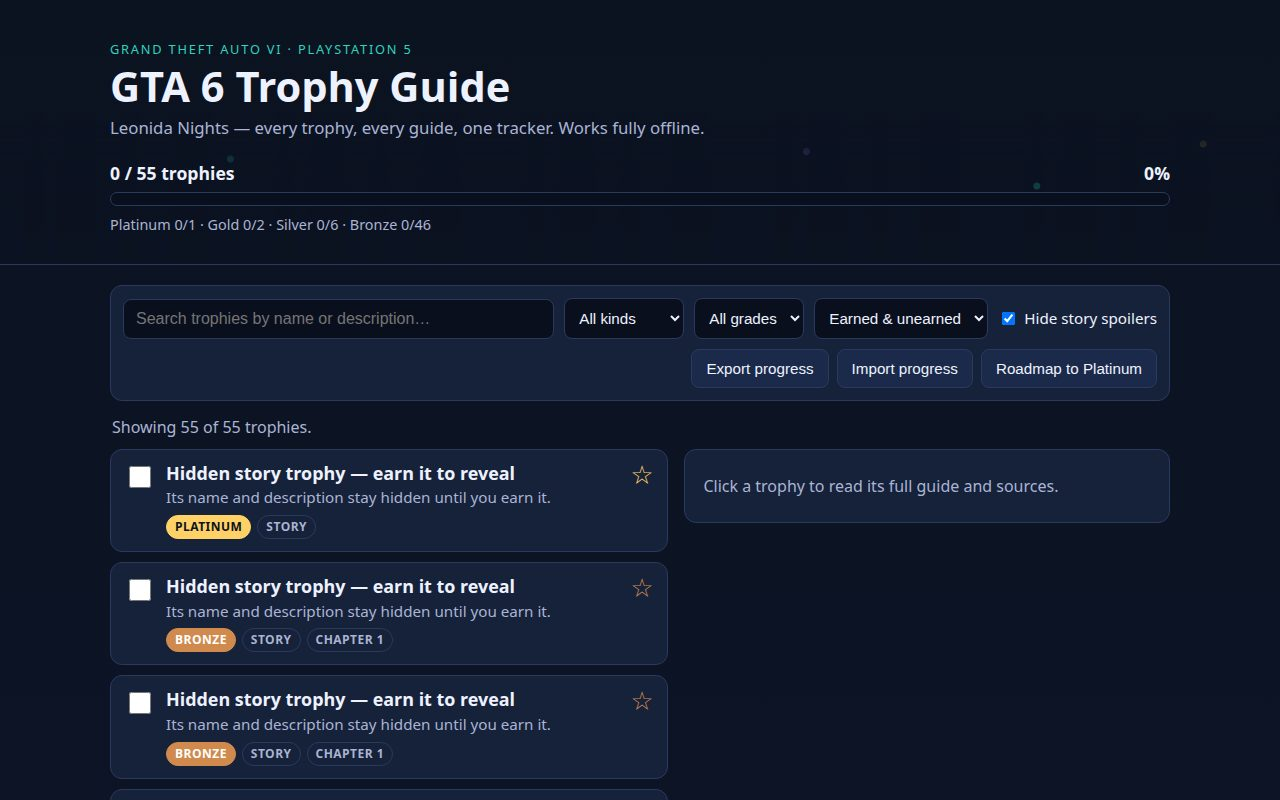
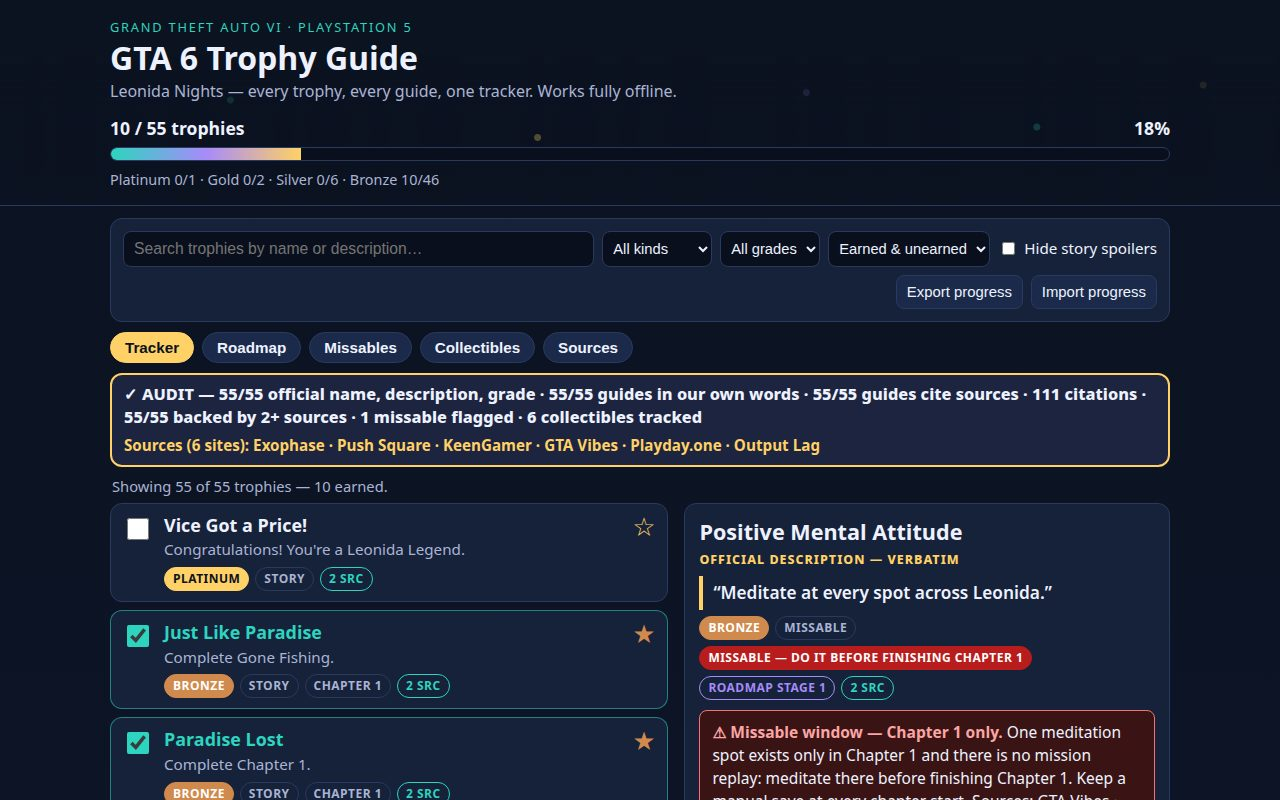
Resubmission: audit strip, cited numbered steps, dense cover screenshot
- Audit strip computed at runtime from trophies.json: 55/55 official
  name/description/grade, 55/55 guides cite sources, 111 citations,
  55/55 backed by 2+ sources, 1 missable flagged, 6 collectibles
  tracked, 6 source sites named.
- Trophy rows show per-trophy source count (2 src) alongside grade,
  kind, missable and chapter tags.
- Detail panel: official description quoted verbatim, missable-window
  analysis (or not-missable note), guide as numbered steps each citing
  [1] [2], sources listed with visible URLs, NEXT UP roadmap-order box.
- View tabs (Tracker/Roadmap/Missables/Collectibles/Sources); toolbar
  Roadmap button folded into the tabs; more compact hero/toolbar so
  the first screen carries header, audit, list and detail together.
- New screenshots: cover with spoilers off, 10 bronze earned and the
  missable detail open; Shootist guide detail; roadmap; collectibles
  filter with the WAiNKer detail. All <= 144 KiB, 0 console errors.
- README documents the audit strip and detail citations.

Changed region(s): [[0.0625, 0.0312, 0.9375, 1.0], [0.875, 0.1562, 0.9062, 0.2188]]

diff --git a/app/app.js b/app/app.js
@@ -15,6 +15,8 @@ const earnedFilter = $('earnedFilter');
 const spoilerToggle = $('spoilerToggle');
 const listNote = $('listNote');
 const emptyNote = $('emptyNote');
+const auditLine = $('auditLine');
+const auditSources = $('auditSources');
 
 let trophies = [];
 let roadmap = [];
@@ -69,6 +71,59 @@ function gradeCountsText() {
     const got = trophies.filter((t) => t.grade === g && earned.has(t.id)).length;
     return gradeLabel(g) + ' ' + got + '/' + total;
   }).join(' · ');
+}
+
+function sourceCount(t) {
+  return Array.isArray(t.sources) ? t.sources.length : 0;
+}
+
+function shortSiteName(source) {
+  // Source names look like "Exophase — GTA 6 trophy list"; keep the site part.
+  return source.name.split('—')[0].trim();
+}
+
+// The audit strip is computed from the loaded data at runtime, so every
+// number it shows is true of the trophies actually in this app.
+function renderAudit() {
+  const total = trophies.length;
+  const official = trophies.filter((t) => t.name && t.description && t.grade).length;
+  const guided = trophies.filter((t) => t.guide && t.guide.trim()).length;
+  const cited = trophies.filter((t) => sourceCount(t) > 0).length;
+  const citations = trophies.reduce((n, t) => n + sourceCount(t), 0);
+  const twoPlus = trophies.filter((t) => sourceCount(t) >= 2).length;
+  const missable = trophies.filter((t) => t.missable).length;
+  const collectibles = trophies.filter((t) => t.kind === 'collectibles').length;
+  const sites = new Map();
+  trophies.forEach((t) => (t.sources || []).forEach((s) => sites.set(s.url, shortSiteName(s))));
+  auditLine.textContent = '✓ AUDIT — ' + official + '/' + total + ' official name, description, grade'
+    + ' · ' + guided + '/' + total + ' guides in our own words'
+    + ' · ' + cited + '/' + total + ' guides cite sources'
+    + ' · ' + citations + ' citations'
+    + ' · ' + twoPlus + '/' + total + ' backed by 2+ sources'
+    + ' · ' + missable + ' missable flagged'
+    + ' · ' + collectibles + ' collectibles tracked';
+  auditSources.textContent = 'Sources (' + sites.size + ' sites): ' + [...sites.values()].join(' · ');
+}
+
+// Which roadmap stage a trophy belongs to, following the stage texts in the
+// data: 1 story chapters/missions (+ the Chapter 1 missable), 2 stranger
+// strands, 3 activities & counts, 4 crime & robberies, 5 cleanup / Platinum.
+function roadmapStageFor(t) {
+  if (t.id === 1 || t.id === 14) return 5;
+  if (t.missable) return 1;
+  if ([22, 23, 24, 25, 26, 27, 29].includes(t.id)) return 2;
+  if (t.kind === 'activities' || t.kind === 'collectibles') return 3;
+  if (t.kind === 'crime') return 4;
+  return 1;
+}
+
+function roadmapOrder() {
+  return [...trophies].sort((a, b) => (roadmapStageFor(a) - roadmapStageFor(b)) || (a.id - b.id));
+}
+
+function guideSteps(t) {
+  const parts = String(t.guide || '').match(/[^.!?]+[.!?]+/g);
+  return parts ? parts.map((s) => s.trim()).filter(Boolean) : [t.guide];
 }
 
 function renderProgress() {
@@ -149,6 +204,12 @@ function trophyRow(t) {
     c.textContent = t.chapter === 'final' ? 'Final mission' : 'Chapter ' + t.chapter;
     meta.appendChild(c);
   }
+  if (sourceCount(t) > 0) {
+    const s = document.createElement('span');
+    s.className = 'pill src';
+    s.textContent = sourceCount(t) + ' src';
+    meta.appendChild(s);
+  }
   body.appendChild(meta);
   btn.appendChild(body);
 
@@ -195,9 +256,13 @@ function renderDetail() {
     const h = document.createElement('h2');
     h.textContent = t.name;
     detailEl.appendChild(h);
+    const olabel = document.createElement('p');
+    olabel.className = 'official-label';
+    olabel.textContent = 'Official description — verbatim';
+    detailEl.appendChild(olabel);
     const desc = document.createElement('p');
-    desc.className = 'trophy-desc';
-    desc.textContent = t.description;
+    desc.className = 'official-desc';
+    desc.textContent = '“' + t.description + '”';
     detailEl.appendChild(desc);
     const meta = document.createElement('div');
     meta.className = 'trophy-meta';
@@ -215,32 +280,97 @@ function renderDetail() {
       m.textContent = 'Missable — do it before finishing Chapter 1';
       meta.appendChild(m);
     }
+    if (t.chapter) {
+      const c = document.createElement('span');
+      c.className = 'pill';
+      c.textContent = t.chapter === 'final' ? 'Final mission' : 'Chapter ' + t.chapter;
+      meta.appendChild(c);
+    }
+    const stage = roadmap.find((s) => s.stage === roadmapStageFor(t));
+    const stagePill = document.createElement('span');
+    stagePill.className = 'pill stage';
+    stagePill.textContent = 'Roadmap Stage ' + roadmapStageFor(t);
+    meta.appendChild(stagePill);
+    if (sourceCount(t) > 0) {
+      const s = document.createElement('span');
+      s.className = 'pill src';
+      s.textContent = sourceCount(t) + ' src';
+      meta.appendChild(s);
+    }
     detailEl.appendChild(meta);
 
+    if (t.missable) {
+      const box = document.createElement('div');
+      box.className = 'missable-analysis';
+      const b = document.createElement('strong');
+      b.textContent = '⚠ Missable window — Chapter 1 only. ';
+      box.appendChild(b);
+      box.appendChild(document.createTextNode('One meditation spot exists only in Chapter 1 and there is no mission replay: meditate there before finishing Chapter 1. Keep a manual save at every chapter start. Sources: GTA Vibes · Output Lag.'));
+      detailEl.appendChild(box);
+    } else {
+      const note = document.createElement('p');
+      note.className = 'safe-note';
+      note.textContent = isStory(t)
+        ? 'Not missable — story trophies unlock by playing the story.'
+        : 'Not missable — this stays available in free roam after the story.';
+      detailEl.appendChild(note);
+    }
+
     const gh = document.createElement('h3');
-    gh.textContent = 'Guide';
+    gh.textContent = 'Guide — numbered steps, each citing the sources below';
     detailEl.appendChild(gh);
-    const guide = document.createElement('p');
-    guide.textContent = t.guide;
-    detailEl.appendChild(guide);
+    const steps = document.createElement('ol');
+    steps.className = 'steps';
+    const citeText = (t.sources || []).map((s, i) => '[' + (i + 1) + ']').join(' ');
+    guideSteps(t).forEach((step) => {
+      const li = document.createElement('li');
+      li.appendChild(document.createTextNode(step + ' '));
+      if (citeText) {
+        const cite = document.createElement('span');
+        cite.className = 'cite';
+        cite.textContent = citeText;
+        li.appendChild(cite);
+      }
+      steps.appendChild(li);
+    });
+    detailEl.appendChild(steps);
 
     if (Array.isArray(t.sources) && t.sources.length) {
       const sh = document.createElement('h3');
-      sh.textContent = 'Sources';
+      sh.textContent = 'Sources — cited for this trophy';
       detailEl.appendChild(sh);
       const ul = document.createElement('ul');
-      t.sources.forEach((s) => {
+      ul.className = 'sources-list';
+      t.sources.forEach((s, i) => {
         const li = document.createElement('li');
         const a = document.createElement('a');
         a.href = s.url;
-        a.textContent = s.name;
+        a.textContent = '[' + (i + 1) + '] ' + s.name;
         a.target = '_blank';
         a.rel = 'noopener';
         li.appendChild(a);
+        const url = document.createElement('span');
+        url.className = 'source-url';
+        url.textContent = s.url;
+        li.appendChild(url);
         ul.appendChild(li);
       });
       detailEl.appendChild(ul);
     }
+
+    const order = roadmapOrder();
+    const pos = order.findIndex((x) => x.id === t.id);
+    const next = order.slice(pos + 1).find((x) => !earned.has(x.id)) || order.find((x) => !earned.has(x.id) && x.id !== t.id);
+    const nextBox = document.createElement('div');
+    nextBox.className = 'next-up';
+    const nb = document.createElement('strong');
+    nb.textContent = 'NEXT UP — ROADMAP ORDER';
+    nextBox.appendChild(nb);
+    const np = document.createElement('p');
+    np.textContent = 'This trophy: Stage ' + roadmapStageFor(t) + (stage ? ' — ' + stage.title : '')
+      + (next ? '. Next unearned in roadmap order: #' + next.id + ' ' + next.name + ' (Stage ' + roadmapStageFor(next) + ').' : '. Nothing unearned left after it in roadmap order.');
+    nextBox.appendChild(np);
+    detailEl.appendChild(nextBox);
   }
   const btn = document.createElement('button');
   btn.type = 'button';
@@ -353,6 +483,7 @@ async function init() {
   roadmap = data.roadmap || [];
   applyUrlParams();
   renderRoadmap();
+  renderAudit();
   renderList();
   renderDetail();
 
@@ -374,6 +505,16 @@ async function init() {
     event.target.value = '';
   });
   $('roadmapBtn').addEventListener('click', () => $('roadmapSection').scrollIntoView({ behavior: 'smooth' }));
+  const setKindTab = (kind) => {
+    kindFilter.value = kind;
+    renderList();
+    window.scrollTo({ top: 0, behavior: 'smooth' });
+  };
+  $('tabTracker').addEventListener('click', () => setKindTab('all'));
+  $('tabMissables').addEventListener('click', () => setKindTab('missable'));
+  $('tabCollectibles').addEventListener('click', () => setKindTab('collectibles'));
+  $('tabRoadmap').addEventListener('click', () => $('roadmapSection').scrollIntoView({ behavior: 'smooth' }));
+  $('tabSources').addEventListener('click', () => $('auditStrip').scrollIntoView({ behavior: 'smooth', block: 'center' }));
 }
 
 init().catch((error) => {

diff --git a/app/style.css b/app/style.css
@@ -52,10 +52,10 @@ body {
     radial-gradient(circle at 81% 48%, rgba(45, 212, 191, 0.45) 0 3px, transparent 4px),
     radial-gradient(circle at 94% 20%, rgba(255, 209, 102, 0.5) 0 3px, transparent 4px);
 }
-.hero-inner { position: relative; max-width: 1100px; margin: 0 auto; padding: 40px 20px 28px; }
-.eyebrow { color: var(--teal); letter-spacing: 0.14em; text-transform: uppercase; font-size: 0.8rem; margin: 0 0 6px; }
-h1 { margin: 0 0 6px; font-size: 2.6rem; line-height: 1.05; }
-.tagline { color: var(--muted); margin: 0 0 20px; font-size: 1.05rem; }
+.hero-inner { position: relative; max-width: 1100px; margin: 0 auto; padding: 18px 20px 14px; }
+.eyebrow { color: var(--teal); letter-spacing: 0.14em; text-transform: uppercase; font-size: 0.8rem; margin: 0 0 4px; }
+h1 { margin: 0 0 4px; font-size: 2rem; line-height: 1.05; }
+.tagline { color: var(--muted); margin: 0 0 12px; font-size: 1rem; }
 
 .progress-text { display: flex; justify-content: space-between; font-weight: 700; font-size: 1.1rem; }
 .progress-bar { height: 14px; border-radius: 999px; background: #0a0f1e; border: 1px solid var(--line); overflow: hidden; margin-top: 6px; }
@@ -63,38 +63,55 @@ h1 { margin: 0 0 6px; font-size: 2.6rem; line-height: 1.05; }
 .grade-counts { color: var(--muted); font-size: 0.9rem; margin: 8px 0 0; }
 
 /* --- Layout --- */
-main { max-width: 1100px; margin: 0 auto; padding: 20px; }
+main { max-width: 1100px; margin: 0 auto; padding: 12px 20px 20px; }
 .toolbar {
-  display: flex; flex-wrap: wrap; gap: 10px; align-items: center;
+  display: flex; flex-wrap: wrap; gap: 8px; align-items: center;
   background: var(--panel); border: 1px solid var(--line); border-radius: var(--radius);
   padding: 12px;
 }
 .toolbar input[type="search"] {
-  flex: 1 1 260px; padding: 10px 12px; border-radius: 8px;
-  border: 1px solid var(--line); background: #0a0f1e; color: var(--ink); font-size: 1rem;
+  flex: 1 1 120px; padding: 8px 10px; border-radius: 8px;
+  border: 1px solid var(--line); background: #0a0f1e; color: var(--ink); font-size: 0.98rem;
 }
 .toolbar select {
-  padding: 10px; border-radius: 8px; border: 1px solid var(--line);
-  background: #0a0f1e; color: var(--ink); font-size: 0.95rem;
+  padding: 8px 6px; border-radius: 8px; border: 1px solid var(--line);
+  background: #0a0f1e; color: var(--ink); font-size: 0.92rem;
 }
 .spoiler-toggle { display: flex; align-items: center; gap: 6px; font-size: 0.95rem; white-space: nowrap; }
 .io-buttons { display: flex; gap: 8px; flex-wrap: wrap; margin-left: auto; }
+/* The Roadmap view tab covers the old toolbar Roadmap button; hiding it
+   keeps the toolbar on one row so the tracker starts higher on screen. */
+.io-buttons #roadmapBtn { display: none; }
 button {
-  padding: 10px 14px; border-radius: 8px; border: 1px solid var(--line);
-  background: var(--panel2); color: var(--ink); font-size: 0.95rem; cursor: pointer;
+  padding: 8px 10px; border-radius: 8px; border: 1px solid var(--line);
+  background: var(--panel2); color: var(--ink); font-size: 0.93rem; cursor: pointer;
 }
 button:hover { border-color: var(--teal); }
-.list-note { color: var(--muted); margin: 14px 2px 10px; }
+.list-note { color: var(--muted); margin: 8px 2px 6px; font-size: 0.92rem; }
+
+/* --- View tabs + audit strip --- */
+.view-tabs { display: flex; gap: 8px; flex-wrap: wrap; margin-top: 10px; }
+.view-tabs .tab {
+  padding: 6px 14px; border-radius: 999px; border: 1px solid var(--line);
+  background: var(--panel2); color: var(--ink); font-size: 0.95rem; font-weight: 700; cursor: pointer;
+}
+.view-tabs .tab.active { background: var(--gold); border-color: var(--gold); color: #0b1220; }
+.audit-strip {
+  margin-top: 10px; border: 2px solid var(--gold); border-radius: var(--radius);
+  background: #1d2440; padding: 8px 12px;
+}
+.audit-line { margin: 0; font-weight: 800; font-size: 1.02rem; line-height: 1.45; color: var(--ink); }
+.audit-sources { margin: 4px 0 0; color: var(--gold); font-weight: 700; font-size: 0.95rem; }
 
 .layout { display: grid; grid-template-columns: minmax(0, 1.15fr) minmax(0, 1fr); gap: 16px; align-items: start; }
 @media (max-width: 860px) { .layout { grid-template-columns: 1fr; } }
 
 /* --- Trophy list --- */
-.trophy-list { list-style: none; margin: 0; padding: 0; display: grid; gap: 10px; }
+.trophy-list { list-style: none; margin: 0; padding: 0; display: grid; gap: 8px; }
 .trophy-item {
   display: grid; grid-template-columns: auto 1fr auto; gap: 12px; align-items: start;
   background: var(--panel); border: 1px solid var(--line); border-radius: var(--radius);
-  padding: 12px 14px; cursor: pointer; text-align: left; width: 100%;
+  padding: 10px 12px; cursor: pointer; text-align: left; width: 100%;
   color: var(--ink); font: inherit;
 }
 .trophy-item:hover { border-color: var(--teal); }
@@ -114,6 +131,8 @@ button:hover { border-color: var(--teal); }
 .pill.silver { color: #0b1220; background: var(--silver); border-color: var(--silver); }
 .pill.bronze { color: #fff; background: var(--bronze); border-color: var(--bronze); }
 .pill.missable { color: #fff; background: #b91c1c; border-color: #b91c1c; }
+.pill.src { color: var(--teal); border-color: var(--teal); }
+.pill.stage { color: var(--purple); border-color: var(--purple); }
 .pill.hidden-tag { color: var(--purple); border-color: var(--purple); }
 .grade-dot { font-size: 1.6rem; line-height: 1; }
 .grade-dot.platinum { color: var(--gold); }
@@ -126,16 +145,39 @@ button:hover { border-color: var(--teal); }
 .detail {
   position: sticky; top: 16px;
   background: var(--panel); border: 1px solid var(--line); border-radius: var(--radius);
-  padding: 18px;
+  padding: 14px;
 }
 .detail-empty { color: var(--muted); margin: 0; }
-.detail h2 { margin: 0 0 4px; font-size: 1.4rem; line-height: 1.25; }
+.detail h2 { margin: 0 0 4px; font-size: 1.35rem; line-height: 1.25; }
 .detail .trophy-desc { font-size: 1rem; }
-.detail h3 { margin: 16px 0 6px; font-size: 0.95rem; letter-spacing: 0.08em; text-transform: uppercase; color: var(--teal); }
+.detail h3 { margin: 12px 0 5px; font-size: 0.92rem; letter-spacing: 0.08em; text-transform: uppercase; color: var(--teal); }
 .detail p { margin: 6px 0; }
 .detail ul { margin: 6px 0; padding-left: 20px; }
 .detail a { color: var(--teal); }
 .detail .earn-btn { margin-top: 12px; width: 100%; font-weight: 700; }
+.official-label { margin: 8px 0 2px; font-size: 0.78rem; font-weight: 800; letter-spacing: 0.08em; text-transform: uppercase; color: var(--gold); }
+.official-desc {
+  border-left: 4px solid var(--gold); padding: 4px 0 4px 10px; margin: 0 0 6px;
+  font-size: 1.08rem; font-weight: 600; color: var(--ink);
+}
+.missable-analysis {
+  background: #3a1414; border: 1px solid var(--danger); border-radius: 8px;
+  padding: 10px 12px; margin-top: 10px; font-size: 0.97rem;
+}
+.missable-analysis strong { color: #fca5a5; }
+.safe-note {
+  background: #0f2f2a; border: 1px solid var(--teal); border-radius: 8px;
+  padding: 8px 12px; margin-top: 10px; font-size: 0.95rem; color: var(--ink);
+}
+.steps { margin: 6px 0; padding-left: 24px; display: grid; gap: 8px; }
+.steps li { font-size: 1rem; }
+.steps li::marker { font-weight: 800; color: var(--gold); }
+.cite { color: var(--gold); font-weight: 800; font-size: 0.85em; white-space: nowrap; }
+.sources-list li { margin-bottom: 6px; }
+.source-url { display: block; color: var(--muted); font-size: 0.8rem; word-break: break-all; }
+.next-up { border: 1px solid var(--teal); border-radius: 8px; padding: 10px 12px; margin-top: 14px; background: #12233a; }
+.next-up strong { color: var(--teal); letter-spacing: 0.06em; font-size: 0.85rem; }
+.next-up p { margin: 4px 0 0; font-size: 0.95rem; }
 .spoiler-note {
   background: #2a1a3a; border: 1px solid var(--purple); border-radius: 8px;
   padding: 10px 12px; color: var(--muted);

diff --git a/app/index.html b/app/index.html
@@ -55,6 +55,19 @@
     </div>
   </section>
 
+  <nav class="view-tabs" aria-label="Views">
+    <button type="button" class="tab active" id="tabTracker">Tracker</button>
+    <button type="button" class="tab" id="tabRoadmap">Roadmap</button>
+    <button type="button" class="tab" id="tabMissables">Missables</button>
+    <button type="button" class="tab" id="tabCollectibles">Collectibles</button>
+    <button type="button" class="tab" id="tabSources">Sources</button>
+  </nav>
+
+  <section class="audit-strip" id="auditStrip" aria-label="Coverage audit">
+    <p class="audit-line" id="auditLine">Audit loading…</p>
+    <p class="audit-sources" id="auditSources"></p>
+  </section>
+
   <p class="list-note" id="listNote"></p>
 
   <section class="layout">

diff --git a/README.md b/README.md
@@ -13,6 +13,8 @@ An offline guide and tracker for all 55 PlayStation 5 trophies of Grand Theft Au
 - **The one missable trophy, flagged everywhere**: Positive Mental Attitude — meditate at every spot across Leonida, with one spot only available in Chapter 1 and no mission replay. Keep a manual save at the start of every chapter.
 - **A five-stage roadmap to the Platinum**: story (Chapters 1–4 + final mission, 60–80h), stranger strands, activities & counts, crime & robberies, then cleanup and 100% completion.
 - **A tracker**: tick trophies to earn them, progress saved in your browser (localStorage), a progress bar with per-grade counts, export progress to JSON and import it back.
+- **An audit strip, computed live from the data**: 55/55 official name, description, grade · 55/55 guides cite sources · 111 citations · 55/55 backed by 2+ sources · 1 missable flagged · 6 collectibles tracked, plus the source sites (Exophase, Push Square, KeenGamer, GTA Vibes, Playday.one, Output Lag). Every trophy row shows its source count (e.g. "2 src"), and each detail panel quotes the official description verbatim, breaks the guide into numbered steps that cite the trophy's sources as [1] [2], lists those sources with their URLs, flags the missable window, and shows what is next in roadmap order.
+- **View tabs** — Tracker, Roadmap, Missables, Collectibles, Sources — above the audit strip for one-click filtering.
 - **Filters** by kind (story, missable, collectibles, activities, crime, hidden), by grade, by earned/unearned, plus text search.
 - **Spoiler setting (on by default)**: hides the names and descriptions of story trophies until you earn them.
 
